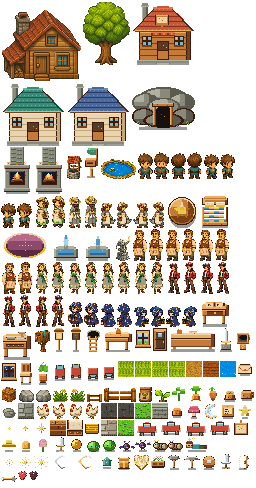
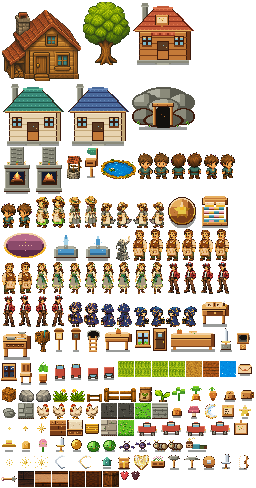
House shell from Imagine: dark floor, plaster walls.

Changed region(s): [[0.0625, 0.9529, 0.5625, 1.0]]

diff --git a/index.html b/index.html
@@ -6357,6 +6357,17 @@
     drawSwordBtn(g);
   }
 
+
+  function houseShellTile(tx, ty) {
+    if (currentScene !== "house") return "wall";
+    if ((tx === 0 || tx === COLS - 1) && (ty === 0 || ty === ROWS - 1)) return "housePost";
+    if (ty === 0) return "houseWallN";
+    if (ty === ROWS - 1) return "houseWallS";
+    if (tx === 0) return "houseWallL";
+    if (tx === COLS - 1) return "houseWallR";
+    return "inwall";
+  }
+
   function drawWorld(g, dt) {
     updateCamera();
     g.fillStyle = currentScene === "mine" ? (C.caveDark || "#14110E") : (currentScene === "house" || currentScene === "shop") ? (C.woodSh || "#7A3E18") : C.grassMid;
@@ -6394,9 +6405,9 @@
         } else if (ch === "m") {
           Assets.draw(g, "meadow", dx, dy);
         } else if (ch === "f") {
-          Assets.draw(g, "woodfloor", dx, dy);
+          Assets.draw(g, currentScene === "house" ? "houseFloor" : "woodfloor", dx, dy);
         } else if (ch === "#") {
-          Assets.draw(g, currentScene === "house" ? "inwall" : "wall", dx, dy);
+          Assets.draw(g, houseShellTile(tx, ty), dx, dy);
         } else {
           Assets.draw(g, "grass" + grassIndex(tx, ty), dx, dy);
         }
